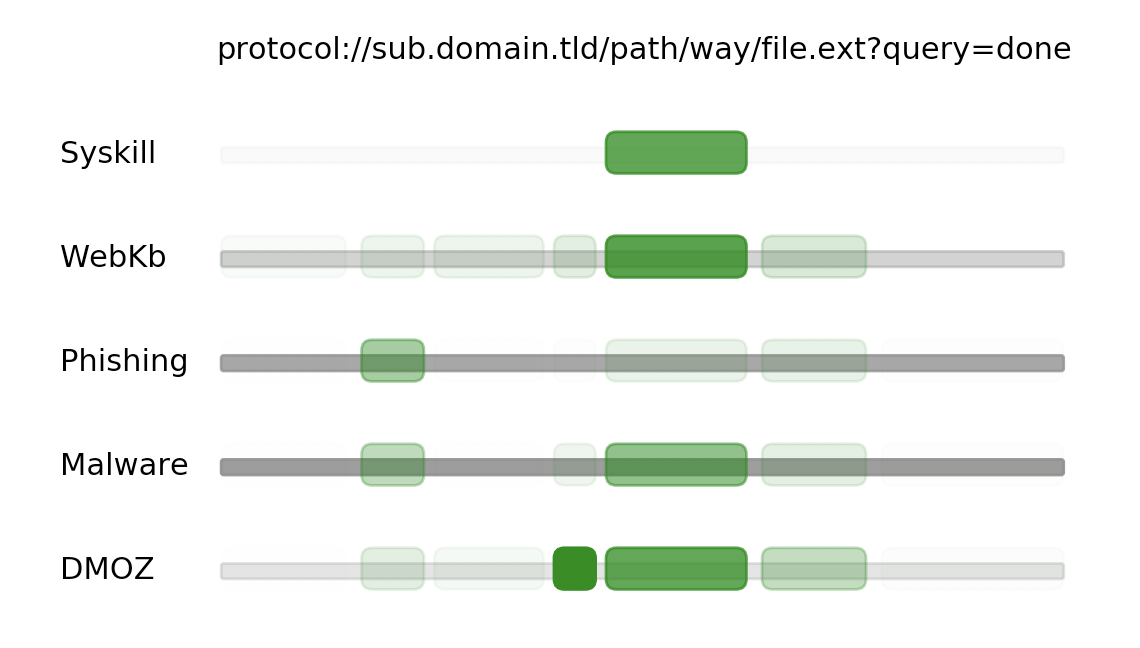
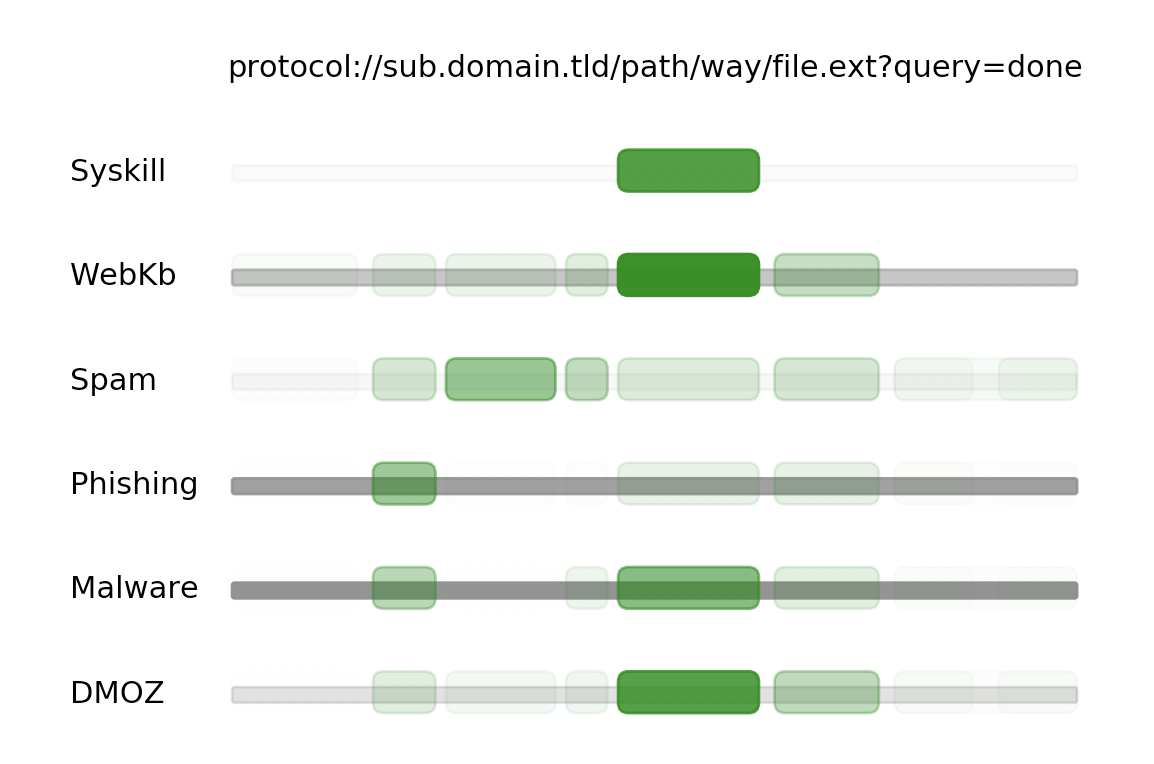
Feature expansion for params and domain, force lowercase and bug fixes in path and file, update to feature importance

diff --git a/url2features/host.py b/url2features/host.py
@@ -1,6 +1,7 @@
 # -*- coding: utf-8 -*-
 import pkg_resources
 import pandas as pd 
+import string
 import numpy as np
 import math
 import sys
@@ -107,6 +108,7 @@ def add_host_features(df, col, add_prefix=True):
         Note: We use the value -1 to indicate that the subdomain is missing
               Where 0 is reserved for a subdomain that is present but unknown
     """
+    count = lambda l1,l2: sum([1 for x in l1 if x in l2])
 
     def dom_features(x, col):
         url = str(x[col]).strip()
@@ -114,6 +116,9 @@ def add_host_features(df, col, add_prefix=True):
             is_ip = np.nan
             has_port = np.nan
             secs = np.nan
+            dom_len = np.nan
+            dom_alpha = np.nan
+            subbie = np.nan
             sub_type = np.nan
             sub_freq = np.nan
             reg_year = np.nan
@@ -126,6 +131,9 @@ def add_host_features(df, col, add_prefix=True):
             parts = host.split(".")
             secs = len(parts)
             if is_ip:
+                subbie = ""
+                dom_len = np.nan
+                dom_alpha = np.nan
                 sub_type = np.nan
                 sub_freq = np.nan
                 reg_dom = host
@@ -133,11 +141,22 @@ def add_host_features(df, col, add_prefix=True):
                 prime, suffix = split_domain_and_suffix(host)
                 parts = prime.split(".")
                 if len(parts) > 1:
-                    subbie = ".".join(parts[0:-1])
+                    dom_len = len(parts[-1])
+                    if dom_len > 0:
+                        dom_alpha = count(parts[-1], string.ascii_lowercase)/dom_len
+                    else:
+                        dom_alpha = np.nan
+                    subbie = ".".join(parts[0:-1]).lower()
                     sub_type = get_subdomain_type(subbie)
                     sub_freq = get_subdomain_freq(subbie)
                     reg_dom = prime[len(subbie)+1:] + suffix
                 else:
+                    subbie = ""
+                    dom_len = len(prime)
+                    if dom_len > 0:
+                        dom_alpha = count(prime, string.ascii_lowercase)/dom_len
+                    else:
+                        dom_alpha = np.nan
                     sub_type = -1
                     sub_freq = -1
                     reg_dom = host
@@ -146,13 +165,13 @@ def add_host_features(df, col, add_prefix=True):
             else:
                 reg_year = get_registration_year(reg_dom)
 
-        return secs, is_ip, has_port, sub_type, sub_freq, reg_year
+        return secs, dom_len, dom_alpha, subbie, is_ip, has_port, sub_type, sub_freq, reg_year
 
     if add_prefix:
-        col_names = [ col+'_domain_sections', col+'_host_is_ip', col+'_host_has_port', 
+        col_names = [ col+'_domain_sections', col+'_domain_len', col+'_domain_alpha', col+'_subdomain', col+'_host_is_ip', col+'_host_has_port', 
                       col+'_subdomain_type', col+'_subdomain_freq', col+'_domain_reg_year'  ]
     else:
-        col_names = [ 'domain_sections', 'host_is_ip', 'host_has_port', 'subdomain_type', 'subdomain_freq', 'domain_reg_year'  ]
+        col_names = [ 'domain_sections', 'domain_len', 'subdomain', 'host_is_ip', 'host_has_port', 'subdomain_type', 'subdomain_freq', 'domain_reg_year'  ]
 
     df[ col_names ] = df.apply(dom_features, col=col, axis=1, result_type="expand")
 

diff --git a/url2features/params.py b/url2features/params.py
@@ -68,6 +68,8 @@ def add_params_features(df, col, add_prefix):
     """
     def get_params_features(x, col):
         f_length = 0
+        f_sections = 0
+        f_enc_char = 0
         p_length = 0
         p_count = 0
         p_match = np.nan
@@ -84,6 +86,10 @@ def add_params_features(df, col, add_prefix):
             url = add_protocol_if_missing(x[col])
             protocol, host, path, params, query, fragment = parse.urlparse(url.strip())
             f_length = len(fragment)
+            if f_length>0:
+               fparts = re.split(r'[?=&]', fragment)
+               f_sections = len(fparts)
+               f_enc_char = detect_encoded_chars(fragment)
             p_length = len(query)
             if p_length>0:
                param_set = query.split("&")
@@ -111,16 +117,18 @@ def add_params_features(df, col, add_prefix):
                  if len(all_vals)>0:
                     val_numeric = count(all_vals, string.digits)/len(all_vals)
             p_match = int( val_count == key_count )  
-        return p_length, p_count, p_match, p_has_url, p_enc_url, p_enc_char, f_length, key_count, key_len, key_numeric, val_count, val_len, val_numeric
+        return p_length, p_count, p_match, p_has_url, p_enc_url, p_enc_char, f_length, f_sections, f_enc_char, key_count, key_len, key_numeric, val_count, val_len, val_numeric
 
     if add_prefix:
         col_names = [ col+"_params_len", col+"_params_count", col+"_params_match", col+"_params_has_url", 
-                      col+"_params_enc_url", col+"_params_enc_char", col+"_params_frag_len",
+                      col+"_params_enc_url", col+"_params_enc_char", 
+                      col+"_frag_len", col+"_frag_secs",  col+"_frag_enc_char", 
                       col+"_keys_count", col+"_keys_len", col+"_keys_numeric", 
                       col+"_value_count", col+"_values_len", col+"_values_numeric"  ] 
     else:
         col_names = [ "params_len", "params_count", col+"_params_match", "params_has_url", 
-                      "params_enc_url", "params_enc_char", "params_frag_len", 
+                      "params_enc_url", "params_enc_char", 
+                      "frag_len", "frag_secs", "frag_enc_char", 
                       "keys_count", "keys_len", "keys_numeric", 
                       "values_count", "values_len", "values_numeric" ]
 

diff --git a/scripts/plot_url_importance.py b/scripts/plot_url_importance.py
@@ -19,7 +19,6 @@ def add_global(axes, ypos, alph):
        boxstyle=mpatches.BoxStyle("Round", pad=0.05), alpha=alph, color='grey')
    )
 
-
 def add_protocol(axes, ypos, alph):
    myy = ypos-0.4
    axes.add_patch(mpatches.FancyBboxPatch((3.3, myy), 2.0, 0.4,
@@ -64,13 +63,13 @@ def add_params(axes, ypos, alph):
 
 def add_keys(axes, ypos, alph):
    myy = ypos-0.4
-   axes.add_patch(mpatches.FancyBboxPatch((16, myy), 1.7, 0.4,
+   axes.add_patch(mpatches.FancyBboxPatch((16, myy), 1.1, 0.4,
        boxstyle=mpatches.BoxStyle("Round", pad=0.2), alpha=alph, color='green')
    )
 
 def add_vals(axes, ypos, alph):
    myy = ypos-0.4
-   axes.add_patch(mpatches.FancyBboxPatch((18, myy), 1.7, 0.4,
+   axes.add_patch(mpatches.FancyBboxPatch((18.0, myy), 1.1, 0.4,
        boxstyle=mpatches.BoxStyle("Round", pad=0.2), alpha=alph, color='green')
    )
 
@@ -78,7 +77,7 @@ def add_vals(axes, ypos, alph):
 def get_plotable_features(file, fnames, importance, prefix=""):
     df = pd.read_csv(file)
     max_val = df[importance].max()
-    df[importance] = df[importance]/(1.3*max_val)
+    df[importance] = df[importance]/(1.2*max_val)
     def map_to_group(x):
         x = x[len(prefix):]
         parts = x.split("_")
@@ -119,6 +118,10 @@ def main(files, prefix, fnames, imports):
             add_tld(ax, ystart, plotables["tld"])
         if plotables.__contains__("file"):
             add_file(ax, ystart, plotables["file"])
+        if plotables.__contains__("keys"):
+            add_keys(ax, ystart, plotables["keys"])
+        if plotables.__contains__("values"):
+            add_vals(ax, ystart, plotables["values"])
         ystart += 2
 
     plt.axis('equal')

diff --git a/url2features/file.py b/url2features/file.py
@@ -58,7 +58,7 @@ def add_file_features(df, col, add_prefix):
             file_1st_wd_prefix, file_1st_wd, file_wds, file_wd_len = extract_word_stats( remove_extension(final_file) )
             file_parts = final_file.split(".")
             if len(file_parts) > 1:
-                ext = file_parts[len(file_parts)-1]
+                ext = file_parts[len(file_parts)-1].lower()
                 type = file_extension_lookup(ext)
                 existance = 1
         return file_len, file_1st_wd_prefix, file_1st_wd, file_wds, file_wd_len, ext, type, existance
@@ -88,7 +88,7 @@ def extract_word_stats(path):
    else:
       fst_wd_pre = fst_wd
 
-   return fst_wd_pre, fst_wd, sum([1 for w in wds if len(w)>2]), wd_len
+   return fst_wd_pre.lower(), fst_wd.lower(), sum([1 for w in wds if len(w)>2]), wd_len
 
 
 ########################################################################################

diff --git a/data/sets/DMOZ/convert.py b/data/sets/DMOZ/convert.py
@@ -1,0 +1,28 @@
+import time
+import pandas as pd
+import urllib.request
+
+df = pd.read_csv("dmoz_dataset_head.csv")
+
+all_links = df["URL"].to_list()
+
+response_times = []
+active_links = []
+
+for x in all_links:
+    st = time.time()
+    try:
+        rez = urllib.request.urlopen(x).getcode()
+        active = 1
+    except:
+        active = 0
+    et = time.time()
+    resp = et - st
+    response_times.append(resp)
+    active_links.append(active)
+
+total_data = pd.DataFrame({"URL":all_links, "active":active_links, "response":response_times})
+
+total_data.to_csv("DMOZ_active_response_test.csv", index=False, header=True)
+
+

diff --git a/url2features/path.py b/url2features/path.py
@@ -39,7 +39,7 @@ def extract_word_stats(path):
    else:
       fst_wd_pre = fst_wd
 
-   return fst_wd_pre, fst_wd, sum([1 for w in wds if len(w)>2]), wd_len
+   return fst_wd_pre.lower(), fst_wd.lower(), sum([1 for w in wds if len(w)>2]), wd_len
 
 
 ########################################################################################
